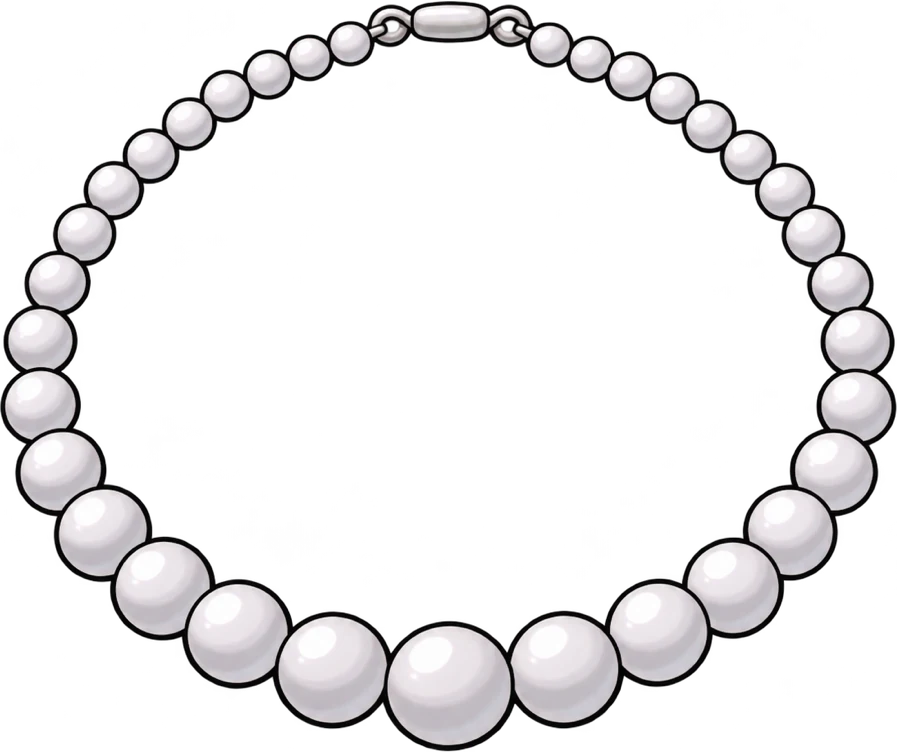
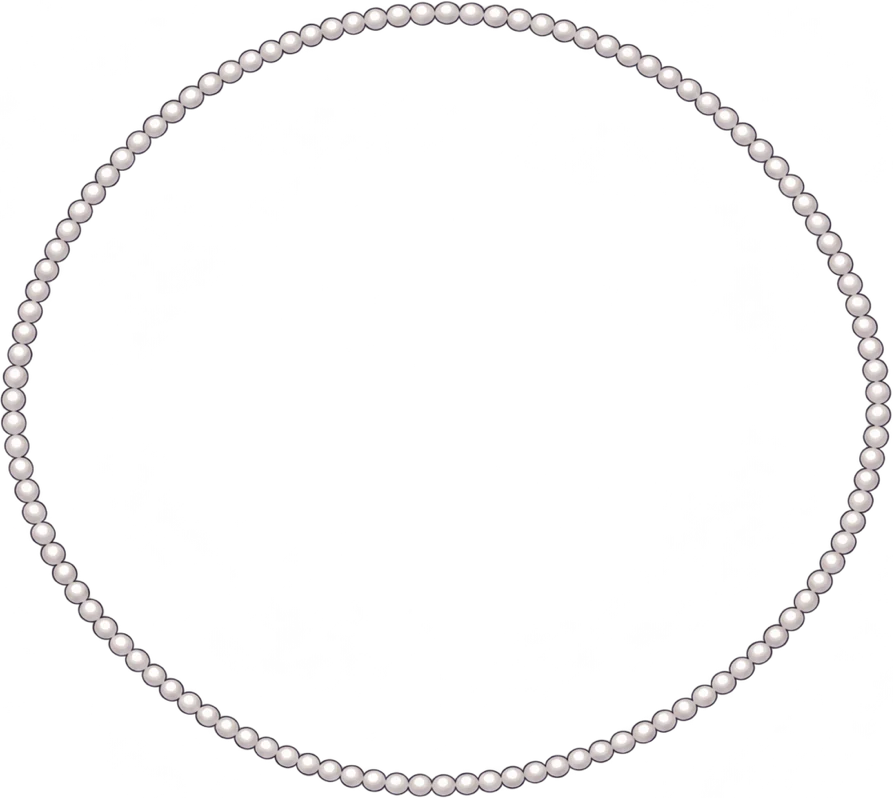
Make jewellery small and delicate; metal colours only
- Redrawn fine: pearl strand, diamond necklace, layered chains, butterfly
  bracelet; shop pictures of necklaces and the tennis bracelet are even circles
- Pearl drop earrings without a hook; chandeliers replaced by «Сияние» diamond
  drops (art name kept so owned items stay)
- Jewellery colours: silver, gold, black or pink, two per item (TINT.gold
  added; sapphire and mint variants and white pearls gone)
- check.py: hanging earrings capped at 24x34 px, faint white wash inside
  necklaces dropped; cards show earrings at half size
- Original hoops and bangles kept at the user's request

Changed region(s): [[0.0, 0.0, 1.0, 1.0]]

diff --git a/src/game/catalog.ts b/src/game/catalog.ts
@@ -163,6 +163,7 @@ export const TINT = {
   noir: 'grayscale(1) brightness(0.45) contrast(1.2)',
   lightWash: 'brightness(1.25) saturate(0.7)',
   silver: 'grayscale(1) brightness(1.15)',
+  gold: 'sepia(1) saturate(2.5) brightness(0.95)',
   cocoa: 'brightness(0.6) saturate(1.3)',
   tintPink: 'grayscale(1) brightness(0.72) sepia(1) saturate(0.65) hue-rotate(297deg) brightness(1.05)',
   tintMint: 'grayscale(1) brightness(0.72) sepia(1) saturate(0.71) hue-rotate(104deg) brightness(1.22)',
@@ -274,11 +275,11 @@ add('y2k', [
   ['acc-shield', 'Очки «Футуризм»'],
   ['acc-shield', 'Очки «Футуризм-голубые»', 'common', 'hue-rotate(200deg)'],
   ['acc-choker', 'Чокер «Сердечко»'],
-  ['acc-choker', 'Чокер «Сердечко-золото»', 'rare', 'sepia(1) saturate(2.5) brightness(0.95)'],
+  ['acc-choker', 'Чокер «Сердечко-золото»', 'rare', TINT.gold],
   ['acc-bracelet', 'Браслет «Бабочка»'],
-  ['acc-bracelet', 'Браслет «Бабочка-мята»', 'common', 'hue-rotate(150deg)'],
+  ['acc-bracelet', 'Браслет «Бабочка-роза»', 'common', TINT.tintPink],
   ['acc-studs', 'Серьги «Бабочки»'],
-  ['acc-studs', 'Серьги «Бабочки-золото»', 'rare', 'sepia(1) saturate(2.5) brightness(0.95)'],
+  ['acc-studs', 'Серьги «Бабочки-золото»', 'rare', TINT.gold],
   ['top-halter', 'Топ «Халтер-зефир»', 'rare'],
   ['top-halter', 'Топ «Халтер-лаванда»', 'rare', 'hue-rotate(300deg)'],
   ['top-babytee', 'Бэби-ти «Сердечко»', 'common'],
@@ -322,7 +323,7 @@ add('glam', [
   ['acc-ear-drops', 'Серьги «Капли»', 'rare'],
   ['acc-ear-drops', 'Серьги «Капли-серебро»', 'rare', TINT.silver],
   ['acc-bracelet-tennis', 'Браслет «Теннисный»', 'epic'],
-  ['acc-bracelet-tennis', 'Браслет «Теннисный-золото»', 'epic', 'sepia(1) saturate(2.5) brightness(0.95)'],
+  ['acc-bracelet-tennis', 'Браслет «Теннисный-золото»', 'epic', TINT.gold],
   ['acc-bag-clutch', 'Клатч «Золото»', 'epic'],
   ['acc-bag-clutch', 'Клатч «Серебро»', 'epic', TINT.silver],
   ['acc-neck-pendant', 'Кулон «Солнце»', 'rare'],
@@ -368,7 +369,7 @@ add('evening', [
   ['top-oneshoulder', 'Топ «Изумрудное плечо»', 'rare'],
   ['top-oneshoulder', 'Топ «Сапфировое плечо»', 'rare', 'hue-rotate(80deg)'],
   ['shoes-glitter', 'Балетки «Блёстки-серебро»', 'rare'],
-  ['shoes-glitter', 'Балетки «Блёстки-золото»', 'rare', 'sepia(1) saturate(2.5) brightness(0.95)'],
+  ['shoes-glitter', 'Балетки «Блёстки-золото»', 'rare', TINT.gold],
 ]);
 
 add('office', [
@@ -385,7 +386,7 @@ add('office', [
   gone(['shoes-loafers', 'Лоферы «Шоколад»']),
   ['shoes-loafers', 'Лоферы «Нуар»', 'common', TINT.noir],
   gone(['shoes-heels', 'Туфли «Офис»']),
-  ['acc-pearls', 'Жемчуг «Классика»', 'rare'],
+  ['acc-pearls', 'Жемчуг «Чёрный»', 'rare', TINT.noir],
   ['acc-tote', 'Сумка-тоут «Нуар»'],
   ['acc-tote', 'Сумка-тоут «Карамель»', 'rare', 'brightness(1.6) sepia(1) saturate(2.26) hue-rotate(348deg) brightness(1.36)'],
   ['dress-sheath', 'Платье-футляр «Нэви»', 'rare'],
@@ -395,7 +396,7 @@ add('office', [
   // drawn ivory: a nude shoe would be taken for her foot when the build splits the foot off
   ['shoes-pumps', 'Балетки-лодочки «Айвори»', 'common'],
   ['shoes-pumps', 'Балетки-лодочки «Нюд»', 'common', 'brightness(0.88) sepia(0.6) saturate(1.6) hue-rotate(-20deg)'],
-  ['acc-studs-pearl', 'Серьги «Жемчужинки»', 'common'],
+  ['acc-studs-pearl', 'Серьги «Чёрный жемчуг»', 'common', TINT.noir],
   ['acc-studs-pearl', 'Серьги «Розовый жемчуг»', 'common', TINT.tintPink],
   ['bottom-pencil', 'Юбка-карандаш «Графит»', 'common'],
   ['bottom-pencil', 'Юбка-карандаш «Тауп»', 'common', 'sepia(0.6) brightness(1.6)'],
@@ -457,9 +458,9 @@ add('premium', [
   ['acc-bag-quilted', 'Сумка «Стёганая пудра»', 'epic'],
   ['acc-bag-quilted', 'Сумка «Стёганая нуар»', 'epic', TINT.noir],
   ['acc-neck-diamond', 'Колье «Бриллианты»', 'epic'],
-  ['acc-neck-diamond', 'Колье «Сапфиры»', 'epic', 'sepia(1) saturate(5) hue-rotate(180deg) brightness(0.9)'],
-  ['acc-ear-chandelier', 'Серьги «Люстры»', 'epic'],
-  ['acc-ear-chandelier', 'Серьги «Люстры-золото»', 'epic', 'sepia(1) saturate(2.5) brightness(0.95)'],
+  ['acc-neck-diamond', 'Колье «Бриллианты-золото»', 'epic', TINT.gold],
+  ['acc-ear-chandelier', 'Серьги «Сияние»', 'epic'],   // art name kept so item ids stay: now diamond drops
+  ['acc-ear-chandelier', 'Серьги «Сияние-золото»', 'epic', TINT.gold],
   ['acc-cateye', 'Очки «Кошачий глаз»', 'rare'],
   ['acc-cateye', 'Очки «Кошачий глаз-карамель»', 'rare', 'sepia(1) saturate(2) brightness(0.8)'],
 ]);

diff --git a/src/styles.css b/src/styles.css
@@ -153,6 +153,8 @@ button:disabled { cursor: default; }
   vertical-align: -1px; box-shadow: inset 0 0 0 1px rgba(0, 0, 0, 0.15);
 }
 .thumb.silhouette { filter: brightness(0); opacity: 0.12; }
+/* earrings are tiny: their close-up shop picture is shown smaller than the card */
+.thumb.slot-earrings { transform: scale(0.5); }
 .badge {
   position: absolute; top: 4px; right: 4px; min-width: 20px; height: 20px; padding: 0 4px;
   display: grid; place-items: center; border-radius: 10px; background: #fff; color: var(--accent);

diff --git a/src/art/Doll.tsx b/src/art/Doll.tsx
@@ -194,7 +194,7 @@ export function ItemThumb({ item, silhouette }: { item: Item; silhouette?: boole
   const product = `product-${item.art}`;
   return (
     <img
-      class={'thumb' + (silhouette ? ' silhouette' : '')}
+      class={`thumb slot-${item.slot}` + (silhouette ? ' silhouette' : '')}
       src={artUrl(LAYERS[product] ? product : item.art)}
       style={{ filter: silhouette ? undefined : item.filter }}
       alt=""

diff --git a/art-src/v2/check.py b/art-src/v2/check.py
@@ -622,8 +622,9 @@ def fit_choker(im, body_a):
     return out, [round(float(sc), 2)]
 
 
-def shrink_earrings(im, max_w=22):
-    """Earrings drawn too big are scaled down about their top (the part on the lobe)."""
+def shrink_earrings(im, max_w=22, max_h=None):
+    """Earrings drawn too big (too wide, or hanging too long) are scaled down about
+    their top (the part on the lobe)."""
     a = im[..., 3] > 128
     lab, n = ndi.label(ndi.binary_dilation(a, iterations=2))
     out = np.zeros_like(im)
@@ -632,11 +633,12 @@ def shrink_earrings(im, max_w=22):
         if cm.sum() < 30:
             continue
         ys, xs = np.nonzero(cm)
-        w = xs.max() - xs.min() + 1
+        w, h = xs.max() - xs.min() + 1, ys.max() - ys.min() + 1
         part = np.where(ndi.binary_dilation(cm, iterations=2)[..., None], im, 0)
-        if w > max_w:
+        sc = min(1.0, max_w / w, max_h / h if max_h else 1.0)
+        if sc < 1:
             ax = (xs.min() + xs.max()) / 2
-            part = scale_part(part, max_w / w, (ax, ys.min()), (ax, ys.min()))
+            part = scale_part(part, sc, (ax, ys.min()), (ax, ys.min()))
         out = np.where(part[..., 3:] > out[..., 3:], part, out)
     return out
 
@@ -712,7 +714,21 @@ def fit_glasses(im, body_a, base_rgba):
     return res, [round(float(angle), 1), round(float(sc), 2)]
 
 
+JEWELLERY = ('acc-hoops', 'acc-ear', 'acc-studs', 'acc-chain', 'acc-pearls', 'acc-neck', 'acc-choker')
+
+
+def drop_haze(im, reach=4):
+    """Codex sometimes fills the inside of a necklace with a faint white wash (alpha up
+    to ~80): keep only pixels within a few px of the solid drawing."""
+    near = ndi.binary_dilation(im[..., 3] >= 128, iterations=reach)
+    out = im.copy()
+    out[..., 3] *= near
+    return out
+
+
 def fit(name, im, body_a):
+    if name.startswith(JEWELLERY):
+        im = drop_haze(im)
     if name.startswith(('acc-shield', 'acc-glasses-drawn')):
         return fit_glasses(im, body_a, rgba(ROOT / 'base.png'))
     if 'choker' in name:
@@ -726,8 +742,10 @@ def fit(name, im, body_a):
             im, legs = fit_legs(im, body_a)
             return im, [0, legs]
         return im, [[0, 1.0], [0, 1.0]]
-    if name.startswith(('acc-hoops', 'acc-ear')):
+    if name.startswith('acc-hoops'):
         return fit_earrings(im, body_a)
+    if name.startswith('acc-ear'):
+        return fit_earrings(shrink_earrings(im, 24, 34), body_a)  # small drops only
     if name.startswith('bottom'):
         im, grown = fit_bottom(im, body_a)
         im, legs = fit_legs(im, body_a)

diff --git a/docs/ART_SPEC.md b/docs/ART_SPEC.md
@@ -100,6 +100,13 @@ art-src/.venv/bin/python art-src/v2/build.py
 | Тёплые | Масло `#F2DC8C`, Персик `#F3B49A`, Терракота `#BE6241` |
 | Металлы | Золото `#D4AF5A`, Серебро `#C9CCD3` |
 
+**Украшения** (серьги, колье, цепочки, браслеты) — только серебряные, золотые, чёрные или
+розовые, у каждого ровно 2 варианта (`TINT.silver`, `TINT.gold`, `TINT.noir`, `TINT.tintPink`).
+Жемчуг тоже: розовый или чёрный, не белый. Все украшения маленькие и тонкие: никаких крупных
+бусин и камней, цепочка — тонкая линия, висячие серьги не длиннее 34 px на кукле (check.py
+уменьшает), без видимых крючков — только гвоздик. Ожерелья и браслеты на картинке магазина —
+ровный круг.
+
 Фильтр под цвет палитры подбирается численно: цепочка
 `sepia(a) saturate(b) hue-rotate(h) brightness(l)`, параметры подгоняются так, чтобы
 медиана ткани на картинке магазина (без контура и бликов) попала в цвет палитры в Lab.
